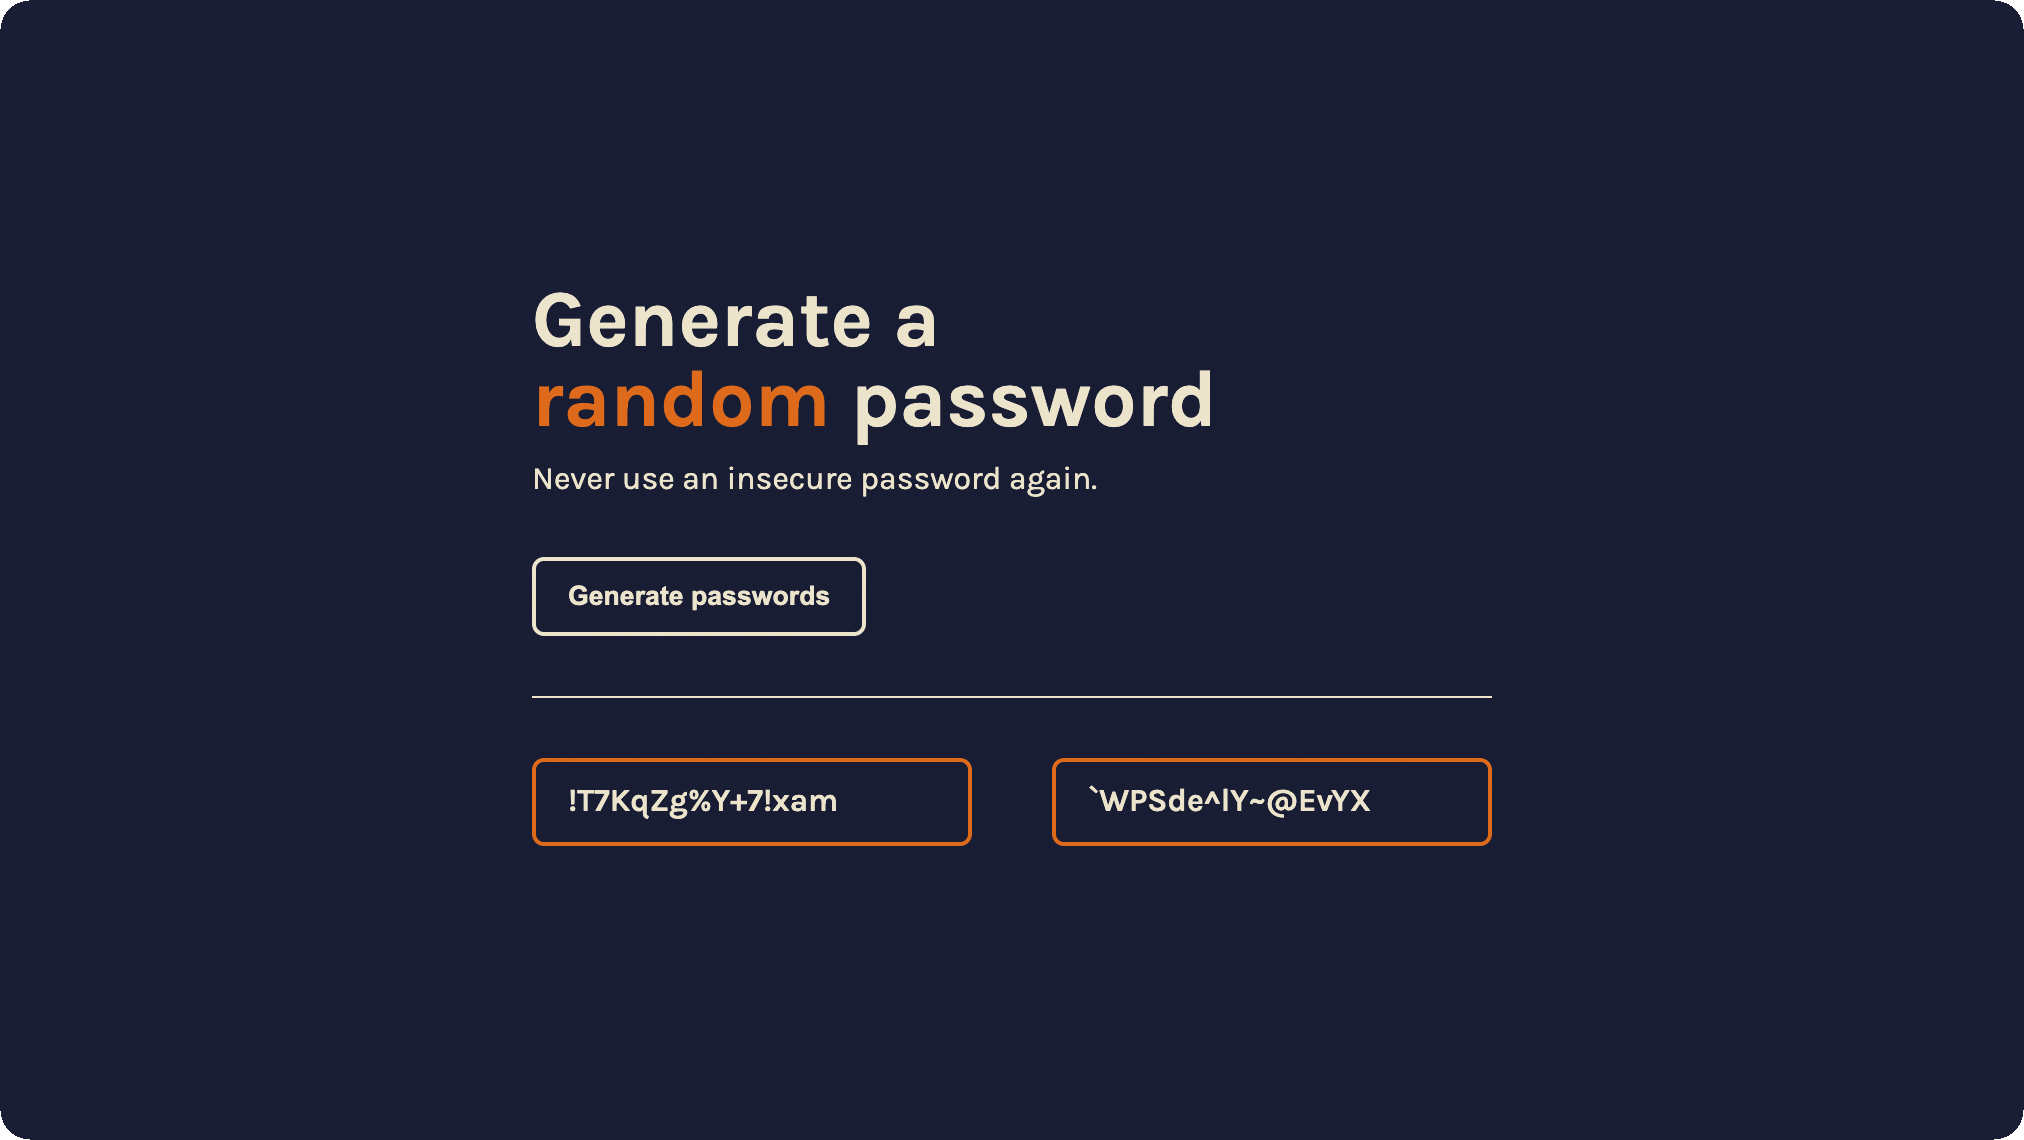
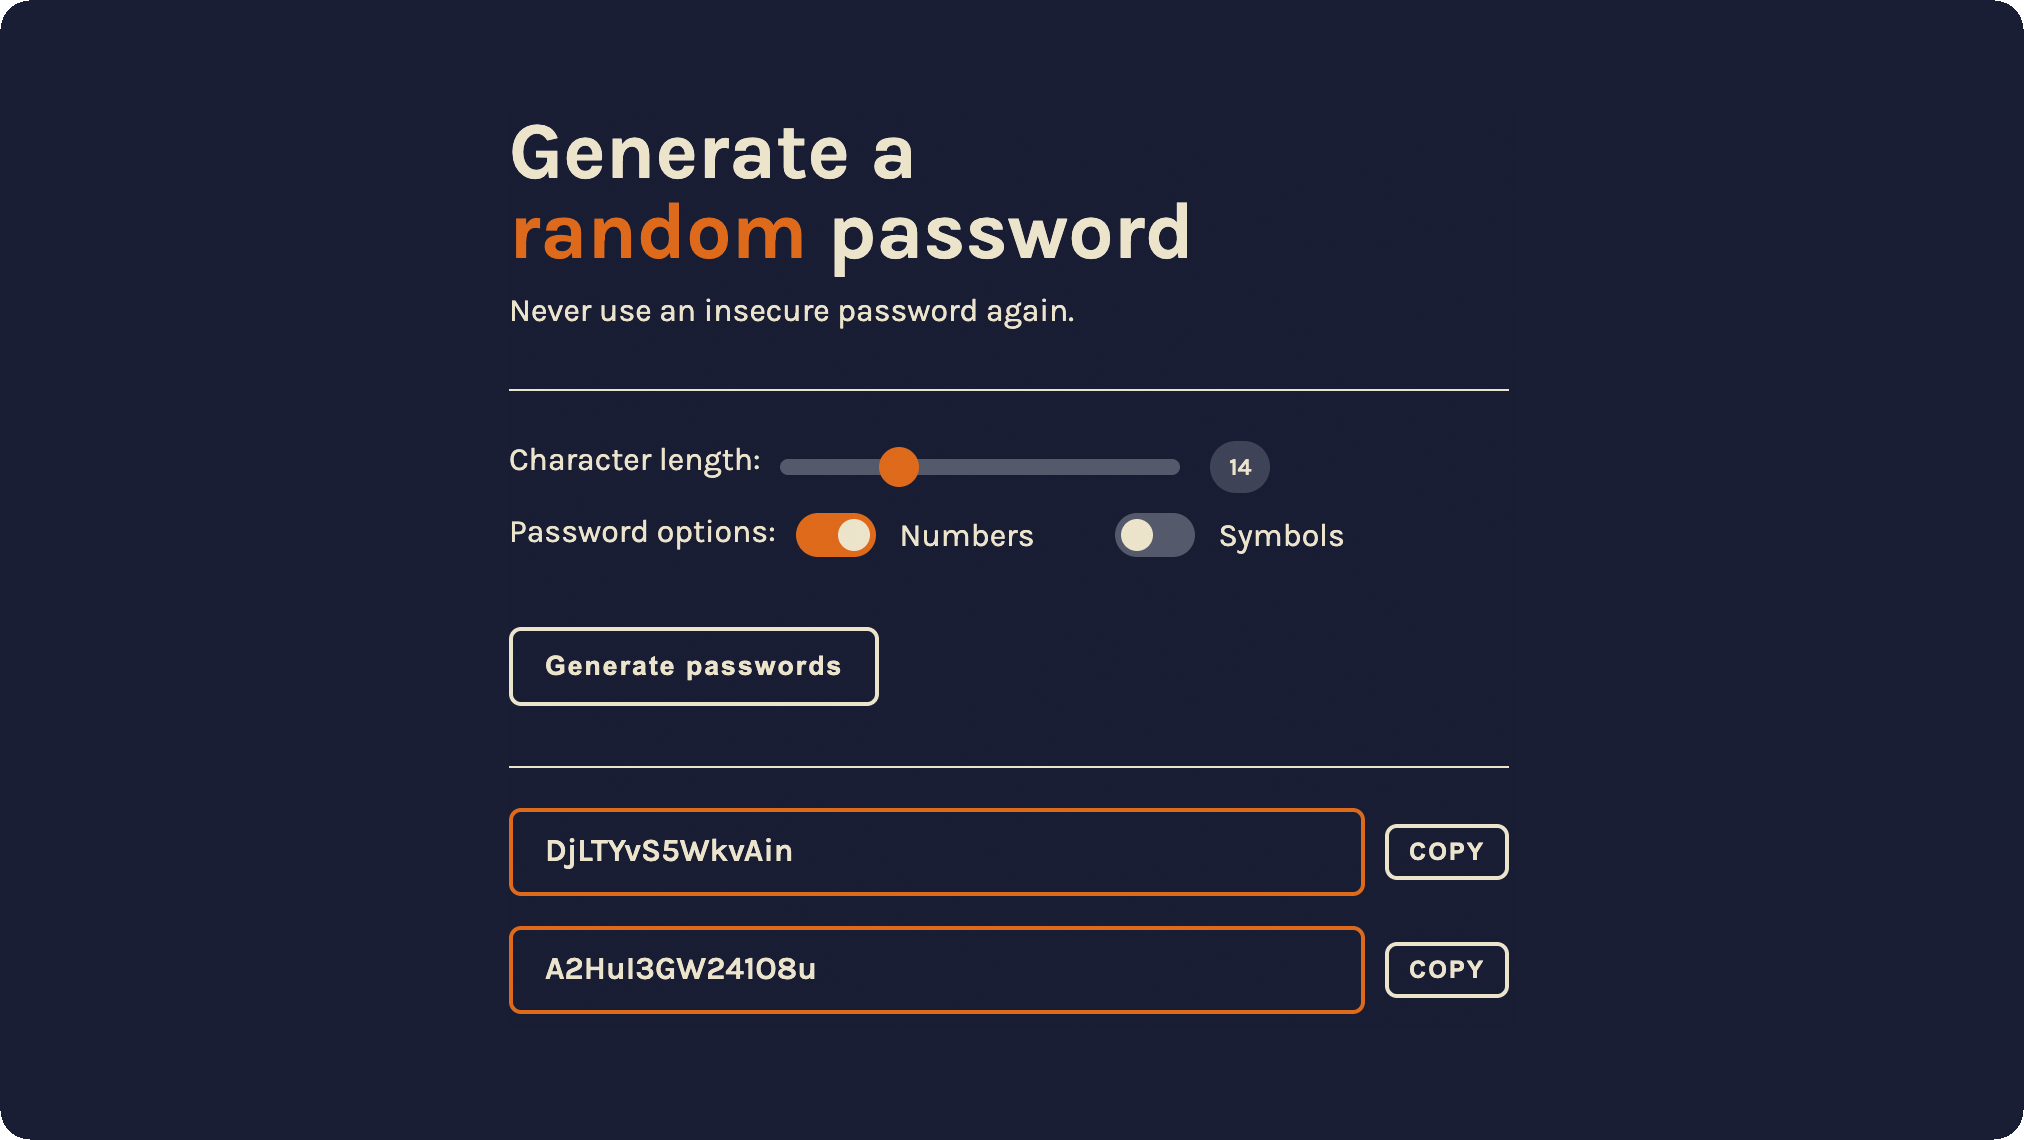
Styling and updated README

Changed region(s): [[0.249, 0.3377, 0.747, 0.8904], [0.249, 0.1842, 0.5914, 0.307], [0.249, 0.0921, 0.4669, 0.1535]]

diff --git a/05-password-generator/style.css b/05-password-generator/style.css
@@ -22,7 +22,7 @@
 }
 
 .github-button:hover {
-    color: #0366d6;
+    color: #e67e22;
 }
 
 html,
@@ -71,23 +71,145 @@ button:hover {
     color: #212844;
 }
 
-.copy-btn {
-    padding: 5px 10px;
-    text-transform: uppercase;
+
+
+
+.requirements-container {
+    border-top: 1px solid #f0e8d5;
+    padding: 20px 0;
+    margin-top: 30px;
+}
+
+.selection {
+    display: flex;
+    padding: 5px 0;
+}
+
+.selection p {
+    margin-right: 10px;
+}
+
+
+.character-length {
+    display: flex;
+    align-items: center;
+    gap: 5px;
+}
+
+.range-slider {
+    -webkit-appearance: none;
+    width: 200px;
+    height: 8px;
+    border-radius: 5px;
+    background: rgba(255, 255, 255, 0.3);
+    outline: none;
+    cursor: pointer;
+}
+
+.range-slider::-webkit-slider-thumb {
+    -webkit-appearance: none;
+    appearance: none;
+    width: 20px;
+    height: 20px;
+    border-radius: 50%;
+    background: #e67e22;
+    cursor: pointer;
+    transition: all 0.2s ease;
+}
+
+.range-slider::-webkit-slider-thumb:hover {
+    transform: scale(1.1);
+}
+
+.range-slider::-moz-range-thumb {
+    width: 20px;
+    height: 20px;
+    border-radius: 50%;
+    background: #e67e22;
+    cursor: pointer;
+    border: none;
+}
+
+#characterValue {
+    background: rgba(255, 255, 255, 0.2);
+    padding: 6px;
+    border-radius: 25px;
+    font-weight: 600;
+    min-width: 30px;
+    text-align: center;
     font-size: 12px;
+    margin-left: 10px;
+}
+
+
+.toggle-group {
+    display: flex;
+    gap: 30px;
+    flex-wrap: wrap;
+}
+
+.toggle-item {
+    display: flex;
+    align-items: center;
+    gap: 12px;
+}
+
+.switch {
+    position: relative;
+    display: inline-block;
+    width: 40px;
+    height: 22px;
+}
+
+.switch input {
+    opacity: 0;
+    width: 0;
+    height: 0;
+}
+
+.toggle-slider {
+    position: absolute;
+    cursor: pointer;
+    top: 0;
+    left: 0;
+    right: 0;
+    bottom: 0;
+    background-color: rgba(255, 255, 255, 0.3);
+    transition: 0.3s ease;
+    border-radius: 22px;
+}
+
+.toggle-slider:before {
+    position: absolute;
+    content: "";
+    height: 16px;
+    width: 16px;
+    left: 3px;
+    bottom: 3px;
+    background-color: #f0e8d5;
+    transition: 0.3s ease;
+    border-radius: 50%;
+}
+
+input:checked+.toggle-slider {
+    background-color: #e67e22;
+}
+
+input:checked+.toggle-slider:before {
+    transform: translateX(18px);
 }
 
 
 #gen-btn {
-    margin: 0px 0;
+    margin: 30px 0;
     padding: 10px 16px;
 }
+
 
 
 .pw-container {
     border-top: 1px solid #f0e8d5;
     padding-top: 20px;
-    margin: 30px 0;
 }
 
 .password {
@@ -109,46 +231,8 @@ button:hover {
     flex-grow: 1;
 }
 
-
-
-
-
-.requirements-container {
-    border-top: 1px solid #f0e8d5;
-    padding: 20px 0;
-    margin: 30px 0;
-}
-
-.selection {
-    display: flex;
-    padding: 5px 0;
-}
-
-
-.slider {
-    -webkit-appearance: none;
-    height: 10px;
-    border-radius: 5px;
-    background: #e67e22;
-    outline: none;
-    margin: 0 20px;
-}
-
-.slider::-webkit-slider-thumb {
-    -webkit-appearance: none;
-    appearance: none;
-    width: 12px;
-    height: 12px;
-    border-radius: 50%;
-    background: #f0e8d5;
-    cursor: pointer;
-}
-
-.slider::-moz-range-thumb {
-    width: 12px;
-    height: 12px;
-    border-radius: 50%;
-    background: #f0e8d5;
-    cursor: pointer;
-    border: 0;
+.copy-btn {
+    padding: 5px 10px;
+    text-transform: uppercase;
+    font-size: 12px;
 }

diff --git a/05-password-generator/index.html b/05-password-generator/index.html
@@ -60,41 +60,58 @@
         <p>Never use an insecure password again.</p>
 
         <div class="requirements-container">
+          <!-- character length slider -->
           <div class="selection">
             <p>Character length:</p>
-            <span class="character-length">
+            <div class="character-length">
               <input
                 type="range"
                 min="8"
                 max="30"
-                value="15"
-                class="slider"
+                value="14"
+                class="range-slider"
                 id="characterRange"
-              />
-            </span>
-            <span id="characterValue"></span>
+                aria-label="Password length"
+              /><span id="characterValue"></span>
+            </div>
           </div>
 
+          <!-- toggles -->
           <div class="selection">
-            <p>Include numbers?:</p>
-
-            <label class="switch">
-              <input type="checkbox" id="includeNum" />
-              <span class="slider round"></span>
-            </label>
-
-            <p>Include symbols?:</p>
-
-            <label class="switch">
-              <input type="checkbox" id="includeSym" />
-              <span class="slider round"></span>
-            </label>
+            <p>Password options:</p>
+            <div class="toggle-group">
+              <div class="toggle-item">
+                <label class="switch"
+                  ><input
+                    type="checkbox"
+                    id="includeNum"
+                    checked
+                    aria-label="Include numbers" /><span
+                    class="toggle-slider"
+                  ></span
+                ></label>
+                <p>Numbers</p>
+              </div>
+              <div class="toggle-item">
+                <label class="switch"
+                  ><input
+                    type="checkbox"
+                    id="includeSym"
+                    aria-label="Include symbols" /><span
+                    class="toggle-slider"
+                  ></span
+                ></label>
+                <p>Symbols</p>
+              </div>
+            </div>
           </div>
-        </div>
+
+
 
         <button id="gen-btn" onclick="generatePassword()">
           Generate passwords
         </button>
+
         <div class="pw-container">
           <div class="password">
             <p id="pw-one"></p>

diff --git a/05-password-generator/script.js b/05-password-generator/script.js
@@ -129,8 +129,6 @@ function passwordArray() {
 withNumbers.onchange = passwordArray;
 withSymbols.onchange = passwordArray;
 
-console.log(passwordArray);
-
 function generatePassword() {
   firstPassword.textContent = "";
   secondPassword.textContent = "";

diff --git a/05-password-generator/README.md b/05-password-generator/README.md
@@ -8,4 +8,8 @@
 
 ✨ [GET A PASSWORD](https://password-generator-rouge-tau-21.vercel.app/)
 
-Password Generator creates two random passwords of 15 characters.
+Password Generator that creates two random passwords of 15 characters.
+
+I managed to complete the stretch goal tasks too, which I'm proud of:
+- Slider to choose password length
+- Toggle buttons to include/remove symbols and/or numbers from the password
